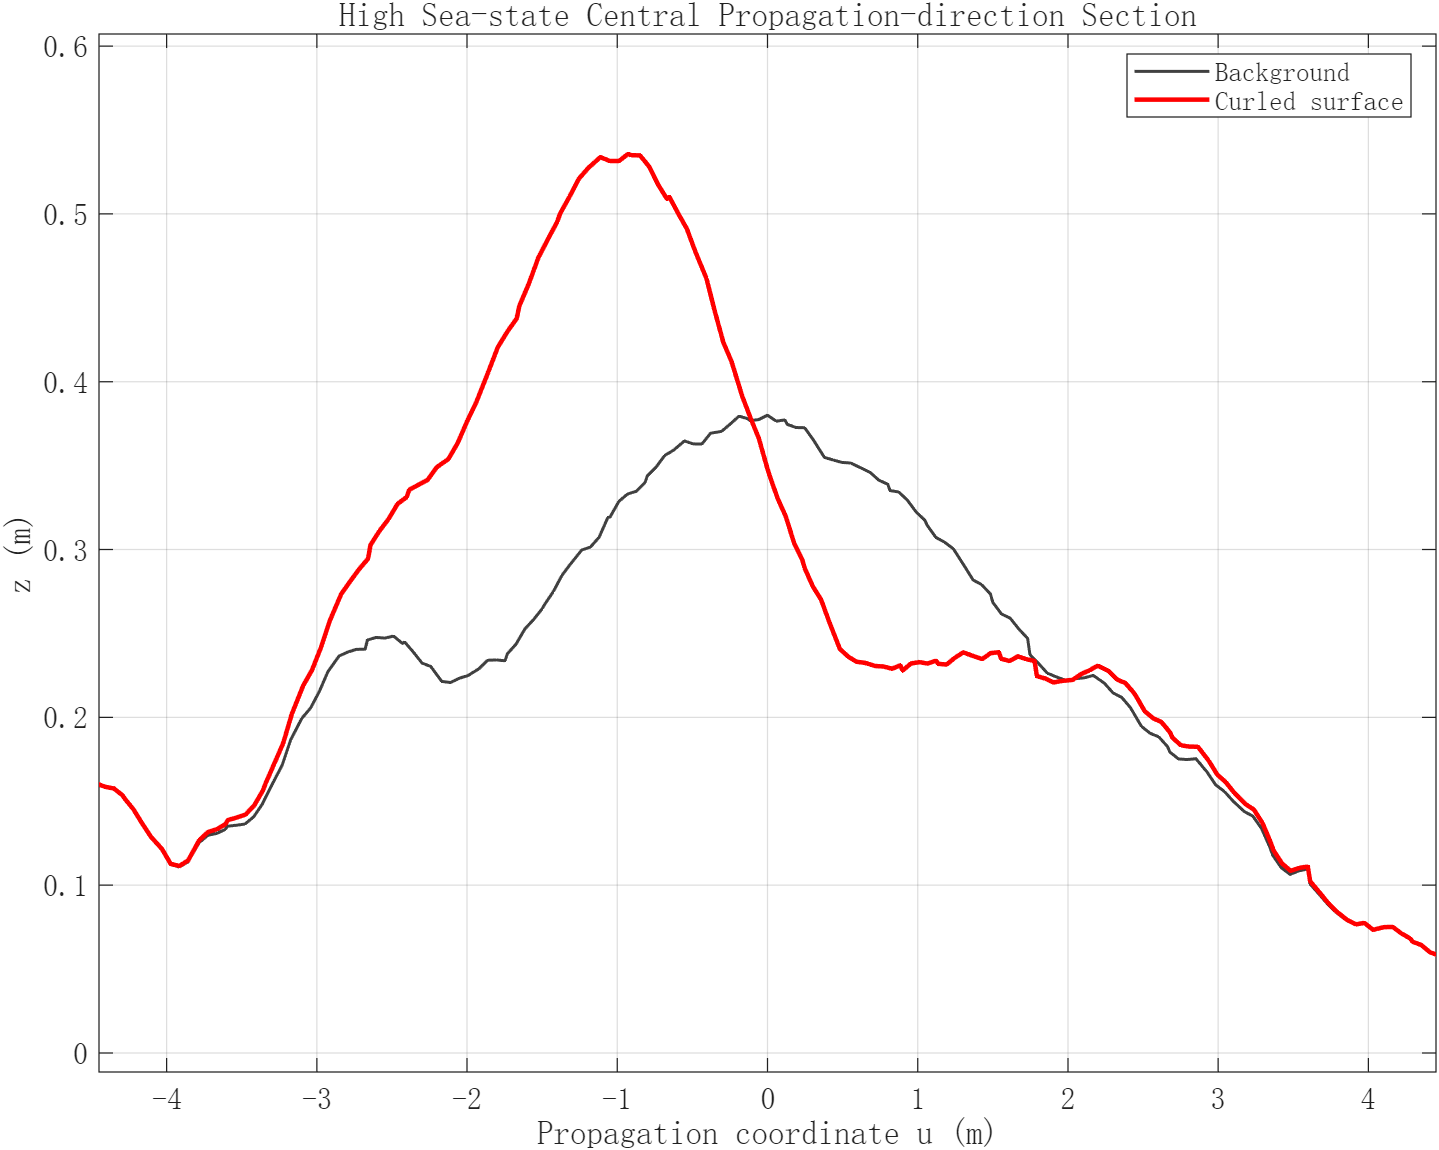
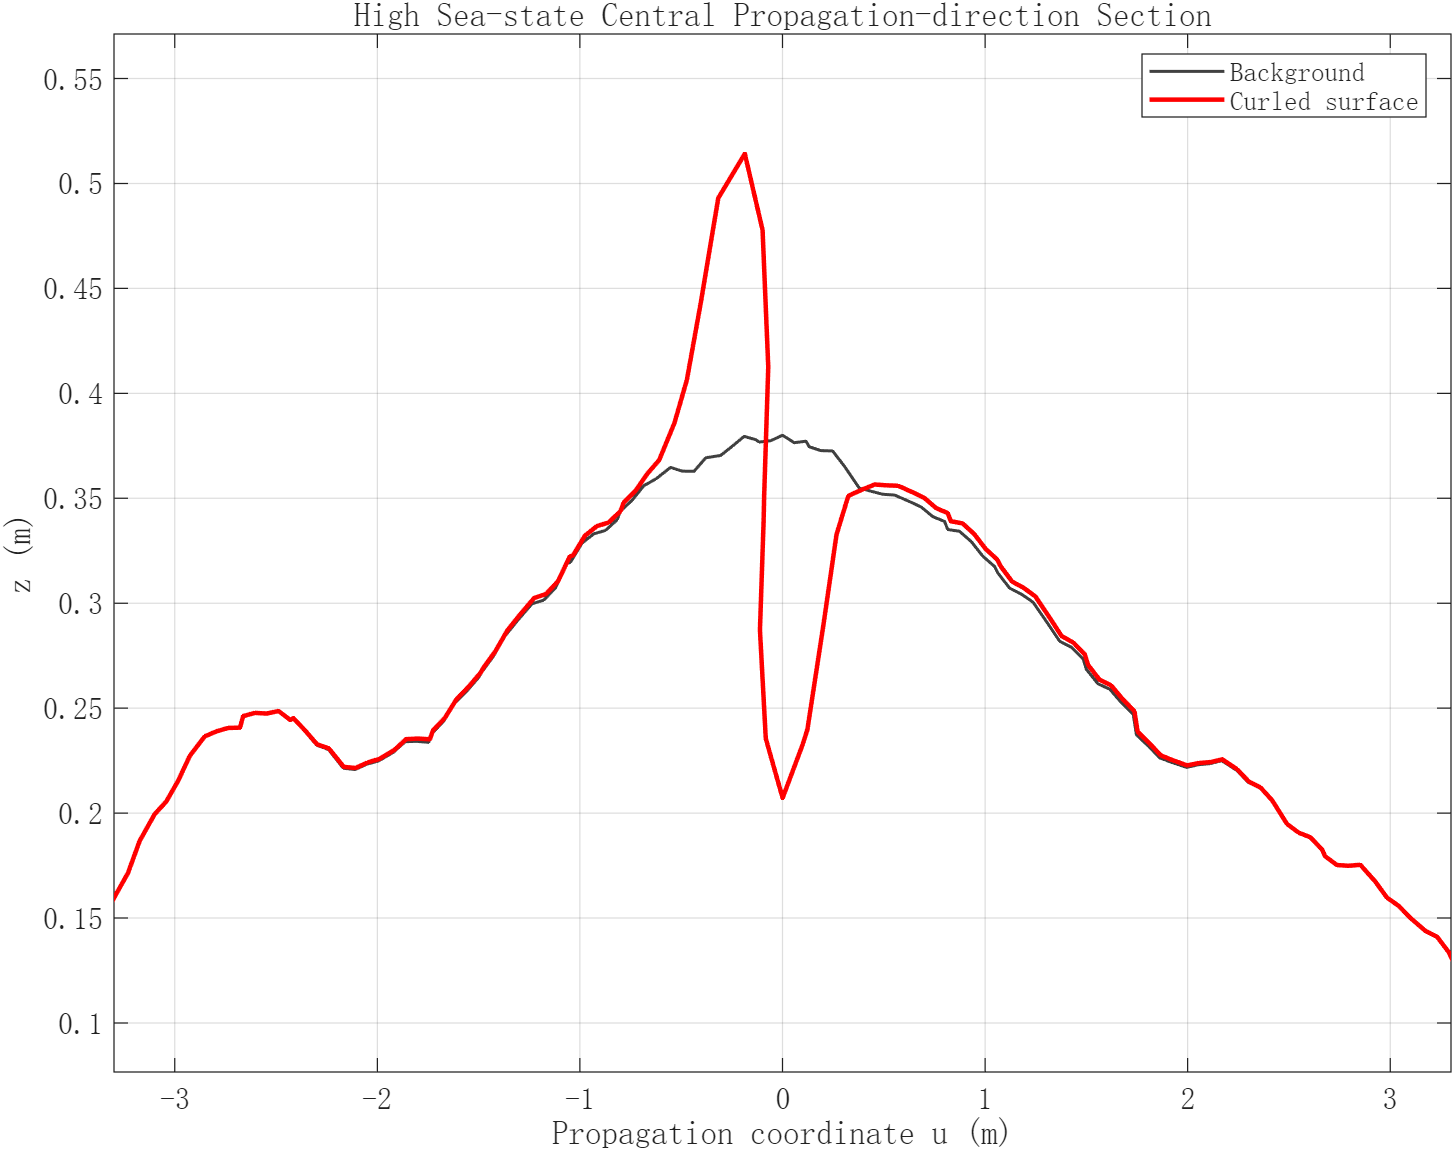
Require geometric overturning for high-state curl

diff --git a/Code/20260824_Verification/Simulation/run_high_sea_state_curl_demo.m b/Code/20260824_Verification/Simulation/run_high_sea_state_curl_demo.m
@@ -20,15 +20,15 @@ cfg.patch.crestSearchSmoothingLength = 0.40;
 cfg.patch.crestRefineRadius = 0.50;
 cfg.patch.propagationDirectionDeg = 15.0;
 cfg.patch.crestLength = 7.0;
-cfg.patch.crossWaveWidth = 3.60;
-cfg.patch.transitionLength = 2.40;
-cfg.patch.crestHeight = 0.080;
-cfg.patch.evolutionHeight = 0.050;
-cfg.patch.evolutionLean = 0.080;
-cfg.patch.curlCenterOffset = -0.55;
-cfg.patch.maxCurlDeg = 20.0;
-cfg.patch.pivotDepth = 0.100;
-cfg.patch.forwardLean = 0.040;
+cfg.patch.crossWaveWidth = 0.50;
+cfg.patch.transitionLength = 2.80;
+cfg.patch.crestHeight = 0.005;
+cfg.patch.evolutionHeight = 0.005;
+cfg.patch.evolutionLean = 0.020;
+cfg.patch.curlCenterOffset = -0.12;
+cfg.patch.maxCurlDeg = 120.0;
+cfg.patch.pivotDepth = 0.015;
+cfg.patch.forwardLean = 0.010;
 
 cfg.output.outputDirectory = fullfile(fileparts(mfilename('fullpath')), ...
     'output', 'high_sea_state');
@@ -42,6 +42,8 @@ assert(all(isfinite(surfaceData.vertices), 'all'), ...
     'The generated mesh contains NaN or Inf values.');
 assert(surfaceData.metrics.maxOutsidePatchDisplacement < 1e-12, ...
     'The localized deformation leaks outside its compact support.');
+assert(surfaceData.metrics.overturningPointCount > 0, ...
+    'The configured surface is steepened but does not geometrically curl.');
 
 fprintf('High sea-state curled surface generated.\n');
 fprintf('  U10                      : %.2f m/s\n', cfg.sea.U10);
@@ -53,6 +55,10 @@ fprintf('  detected crest elevation: %.3f m\n', ...
     surfaceData.crestDetection.z);
 fprintf('  maximum elevation change: %.3f m\n', ...
     surfaceData.metrics.maxElevationIncrement);
+fprintf('  minimum du_final/du      : %.4f\n', ...
+    surfaceData.metrics.minimumLocalPropagationJacobian);
+fprintf('  overturning grid points  : %d\n', ...
+    surfaceData.metrics.overturningPointCount);
 
 figSurface = new_figure(cfg.output.figureVisible, [100 100 1120 760]);
 trisurf(surfaceData.faces, surfaceData.vertices(:,1), ...
@@ -95,10 +101,32 @@ xlabel('Propagation coordinate u (m)'); ylabel('z (m)');
 legend('Background','Curled surface','Location','best');
 title('High Sea-state Central Propagation-direction Section');
 
+figCloseup = new_figure(cfg.output.figureVisible, [180 180 920 560]);
+plot(uBase, zBase(order), 'Color',[0.25 0.25 0.25], ...
+    'LineWidth',1.2); hold on;
+plot(uCurl(order), zCurl(order), 'r-', 'LineWidth',2.0);
+grid on;
+curlViewHalfWidth = 0.85;
+xlim([cfg.patch.curlCenterOffset-curlViewHalfWidth, ...
+    cfg.patch.curlCenterOffset+curlViewHalfWidth]);
+closeupWindow = abs(uBase-cfg.patch.curlCenterOffset) <= ...
+    curlViewHalfWidth;
+closeupElevation = [zBase(order(closeupWindow)); ...
+    zCurl(order(closeupWindow))];
+closeupMargin = max(0.03, 0.12*(max(closeupElevation)- ...
+    min(closeupElevation)));
+ylim([min(closeupElevation)-closeupMargin, ...
+    max(closeupElevation)+closeupMargin]);
+xlabel('Propagation coordinate u (m)'); ylabel('z (m)');
+legend('Background','Curled surface','Location','best');
+title('Close View of the Overturning Curl');
+
 exportgraphics(figSurface, fullfile(cfg.output.outputDirectory, ...
     'high_sea_state_curled_surface.png'), 'Resolution',240);
 exportgraphics(figSection, fullfile(cfg.output.outputDirectory, ...
     'high_sea_state_section_comparison.png'), 'Resolution',180);
+exportgraphics(figCloseup, fullfile(cfg.output.outputDirectory, ...
+    'high_sea_state_curl_closeup.png'), 'Resolution',220);
 
 function fig = new_figure(visibility, position)
 fig = figure('Visible',visibility, 'Color','w', 'Position',position);

diff --git a/Code/20260824_Verification/Simulation/generate_localized_elfouhaily_curl_patch.m b/Code/20260824_Verification/Simulation/generate_localized_elfouhaily_curl_patch.m
@@ -86,6 +86,11 @@ X = xc + cos(psi).*uFinal - sin(psi).*v;
 Y = yc + sin(psi).*uFinal + cos(psi).*v;
 
 breakingMask = coreSupport >= cfg.patch.maskThreshold;
+[duFinalDx, duFinalDy] = gradient(uFinal, ...
+    cfg.domain.Lx/Nx, cfg.domain.Ly/Ny);
+localPropagationJacobian = cos(psi).*duFinalDx + ...
+    sin(psi).*duFinalDy;
+overturningMask = breakingMask & localPropagationJacobian < 0;
 faces = structured_triangles(Nx, Ny);
 facetMask = any(reshape(breakingMask(faces), size(faces)), 2);
 
@@ -102,6 +107,8 @@ surfaceData.X = X;
 surfaceData.Y = Y;
 surfaceData.Z = Z;
 surfaceData.breakingMask = breakingMask;
+surfaceData.overturningMask = overturningMask;
+surfaceData.localPropagationJacobian = localPropagationJacobian;
 surfaceData.support = support;
 surfaceData.coreSupport = coreSupport;
 surfaceData.localU = u;
@@ -134,6 +141,11 @@ effectiveCurl = theta .* support;
 surfaceData.metrics.maxCurlToCrestDistance = hypot( ...
     X0(maximumCurlIndex)-crestDetection.x, ...
     Y0(maximumCurlIndex)-crestDetection.y);
+surfaceData.metrics.minimumLocalPropagationJacobian = min( ...
+    localPropagationJacobian(breakingMask));
+surfaceData.metrics.overturningPointCount = nnz(overturningMask);
+surfaceData.metrics.overturningProjectedArea = nnz(overturningMask) * ...
+    (cfg.domain.Lx/Nx) * (cfg.domain.Ly/Ny);
 outside = support == 0;
 surfaceData.metrics.maxOutsidePatchDisplacement = max([ ...
     abs(X(outside)-X0(outside)); abs(Y(outside)-Y0(outside)); ...

diff --git a/Code/20260824_Verification/Simulation/README.md b/Code/20260824_Verification/Simulation/README.md
@@ -9,7 +9,7 @@
 - `generate_localized_elfouhaily_curl_patch.m`: 自动搜索边界安全区域内的最高有效波峰，并在该峰顶生成配对的背景面和局部三维卷浪面。
 - `run_localized_elfouhaily_curl_demo.m`: 卷浪生成、六个独立 MATLAB figure 的可视化和 MAT 保存示例。
 - `plot_curled_sea_only.m`: 只绘制卷曲后 G1 海面并导出独立 PNG，不包含对照组、剖面线或位置标记。
-- `run_high_sea_state_curl_demo.m`: 在 `36 m x 36 m` 计算域内，以独立随机相位生成 `U10=12 m/s`、`Hs=0.90 m`、逆波龄 `2.0` 的较高海况卷浪，并以两个独立 figure 输出卷曲海面和中心剖面对比。
+- `run_high_sea_state_curl_demo.m`: 在 `36 m x 36 m` 计算域内，以独立随机相位生成 `U10=12 m/s`、`Hs=0.90 m`、逆波龄 `2.0` 的较高海况卷浪，并以三个独立 figure 输出卷曲海面、中心剖面对比和翻卷近景。
 
 ## Current Boundary
 
@@ -58,5 +58,5 @@ plot_curled_sea_only
 run_high_sea_state_curl_demo
 ```
 
-结果写入 `output/high_sea_state`，包括独立海面图和独立剖面对比图。完整海面可由固定随机种子和该脚本参数重建，因此不重复提交大体积 MAT 中间数据。
+结果写入 `output/high_sea_state`，包括独立海面图、独立剖面对比图和卷曲近景。脚本要求局部传播映射雅可比 `du_final/du` 出现负值；如果只变陡而没有水平回折，断言会失败。完整海面可由固定随机种子和该脚本参数重建，因此不重复提交大体积 MAT 中间数据。
 
